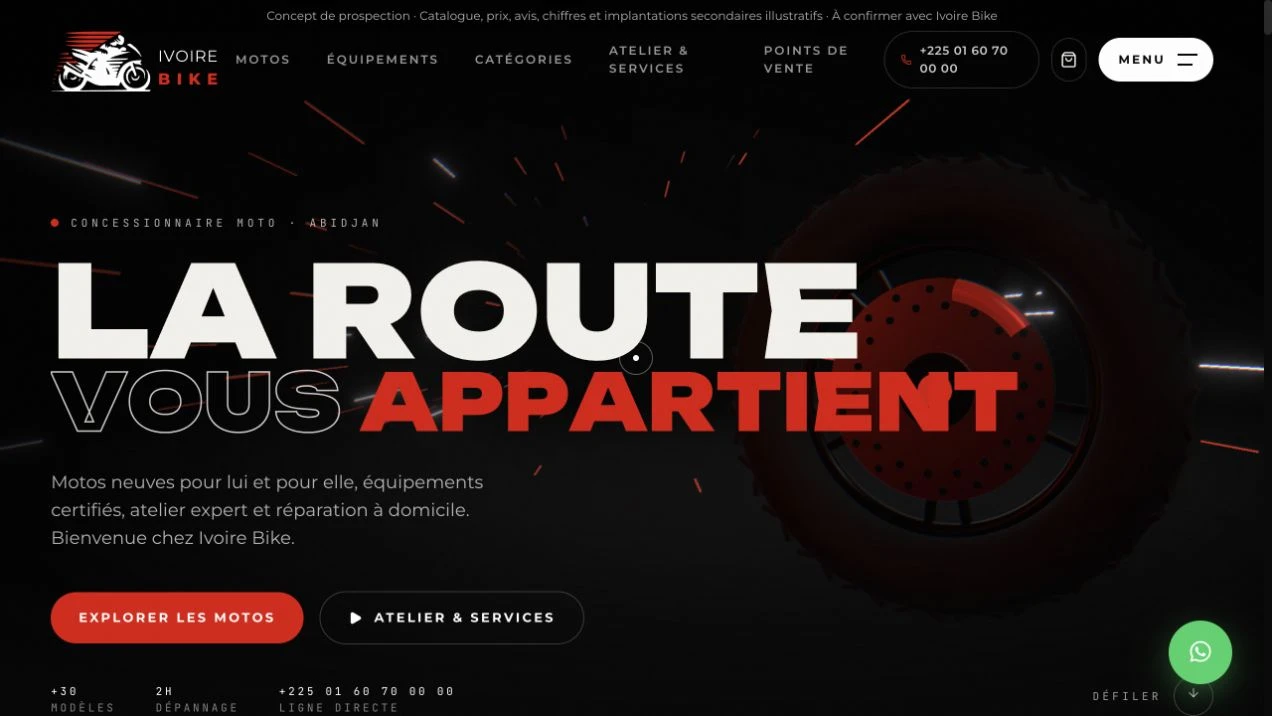
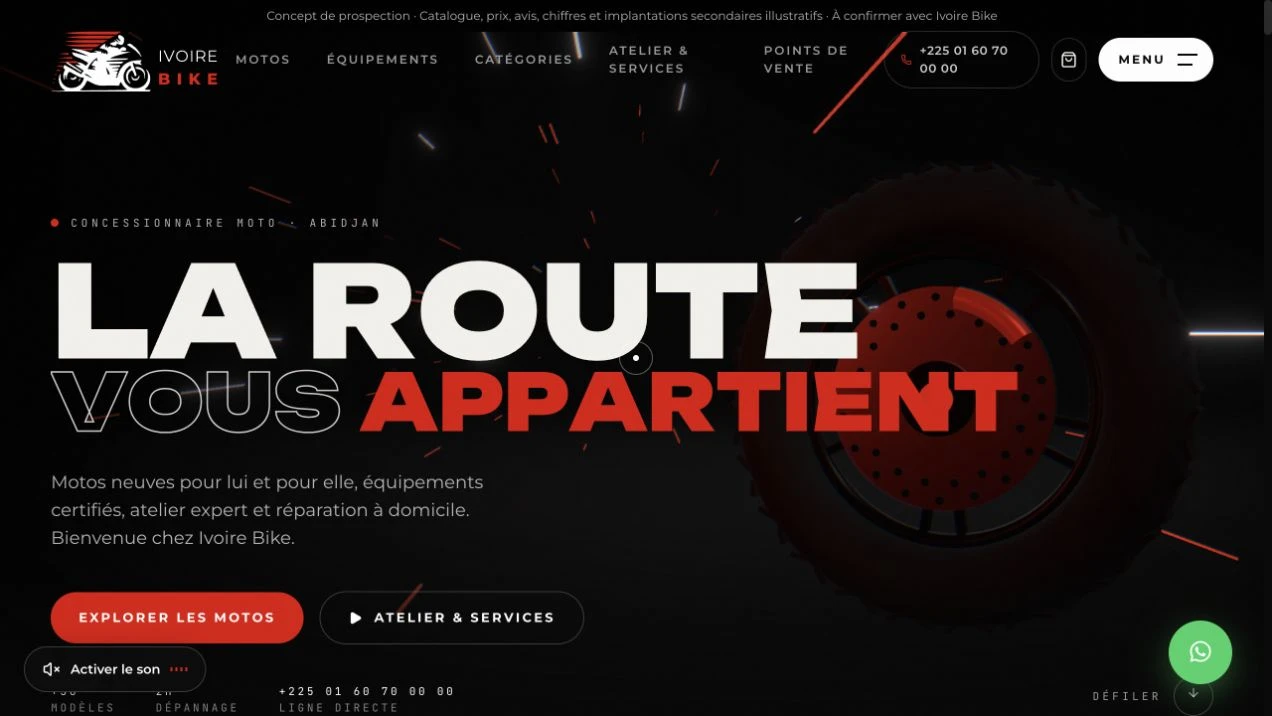
Feature Six Cordes, Ivoire Bike and CacaoSat first among ten homepage projects

diff --git a/src/data/content.ts b/src/data/content.ts
@@ -241,6 +241,24 @@ export type Project = {
 
 export const projects: Project[] = [
   {
+    slug: "sixcordes",
+    title: "Six Cordes",
+    category: "Maison d’instruments · expérience web musicale",
+    description:
+      "Site de présentation d’une maison d’instruments à Abidjan : direction chaleureuse, cordes interactives et démonstrations sonores synthétisées avec Web Audio. Catalogue illustratif de 33 références, 45 pages, filtres par famille, niveau, marque et budget, galerie, atelier et sélection pour devis WhatsApp. Musique fournie en boucle, contrôle commun avec les instruments et respect de l’arrêt volontaire. Captures web et mobile, expérience responsive et déploiement GitHub Pages en HTTPS. Catalogue, prix et coordonnées de démonstration à confirmer.",
+    tags: ["Next.js", "React", "GSAP", "Web Audio", "Framer Motion"],
+    link: "https://sixcordes.myoctogone.com/",
+    linkLabel: "Explorer Six Cordes",
+    image: "/images/sixcordes-web.webp",
+    mobileImage: "/images/sixcordes-mobile.webp",
+    stats: [
+      { value: "33", label: "Références illustratives" },
+      { value: "45", label: "Pages de contenu" },
+      { value: "Audio", label: "Cordes interactives" },
+    ],
+    featured: true,
+  },
+  {
     slug: "ivoirebike",
     title: "Ivoire Bike",
     category: "Concept de prospection · showroom moto immersif",
@@ -257,6 +275,18 @@ export const projects: Project[] = [
       { value: "hard", label: "Branche déployée" },
     ],
     featured: true,
+  },
+  {
+    slug: "cacaosat",
+    title: "CacaoSat",
+    category: "Agritech / Satellite & traçabilité",
+    description:
+      "Une expérience immersive de la traçabilité du cacao ivoirien : terrain 3D procédural, satellite en orbite, caméra au défilement et cartographie interactive. Vues agent, coopérative et exportateur, lots et rapport GeoJSON avec des données synthétiques clairement séparées de toute certification réelle.",
+    tags: ["Next.js", "Three.js", "Leaflet", "GeoJSON", "Satellite"],
+    link: "https://cacaosat.myoctogone.com/",
+    linkLabel: "Explorer CacaoSat",
+    image: "/images/cacaosat-web.webp",
+    mobileImage: "/images/cacaosat-mobile.webp",
   },
   {
     slug: "babijus",
@@ -478,18 +508,7 @@ export const projects: Project[] = [
     image: "/images/maresie-web.webp",
     mobileImage: "/images/maresie-mobile.webp",
   },
-  {
-    slug: "cacaosat",
-    title: "CacaoSat",
-    category: "Agritech / Satellite & traçabilité",
-    description:
-      "Une expérience immersive de la traçabilité du cacao ivoirien : terrain 3D procédural, satellite en orbite, caméra au défilement et cartographie interactive. Vues agent, coopérative et exportateur, lots et rapport GeoJSON avec des données synthétiques clairement séparées de toute certification réelle.",
-    tags: ["Next.js", "Three.js", "Leaflet", "GeoJSON", "Satellite"],
-    link: "https://cacaosat.myoctogone.com/",
-    linkLabel: "Explorer CacaoSat",
-    image: "/images/cacaosat-web.webp",
-    mobileImage: "/images/cacaosat-mobile.webp",
-  },
+
   {
     slug: "myoctogone",
     title: "MyOctogone",

diff --git a/src/components/agency/Home.tsx b/src/components/agency/Home.tsx
@@ -21,12 +21,16 @@ export default function AgencyHome() {
   const lift = useTransform(scrollYProgress, [0, 1], [0, -95]),
     rotate = useTransform(scrollYProgress, [0, 1], [-7, 3]);
   const selected = [
+    "sixcordes",
+    "ivoirebike",
+    "cacaosat",
     "babijus",
     "myoctogone",
     "salmacreation",
     "spaghetti-abidjan",
     "edone",
     "brvm-analytics",
+    "momofund",
   ]
     .map((slug) => projects.find((p) => p.slug === slug)!)
     .filter(Boolean);

diff --git a/src/components/agency/LivePreview.tsx b/src/components/agency/LivePreview.tsx
@@ -4,6 +4,7 @@ import Image from "next/image";
 import type { Project } from "@/data/content";
 import { Arrow, Label } from "./ui";
 const available = [
+  "sixcordes",
   "ivoirebike",
   "babijus",
   "bantoo",
